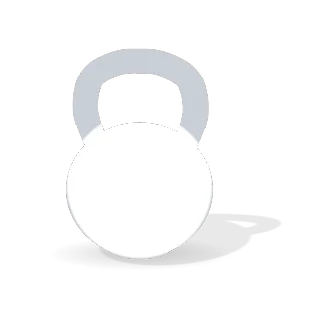
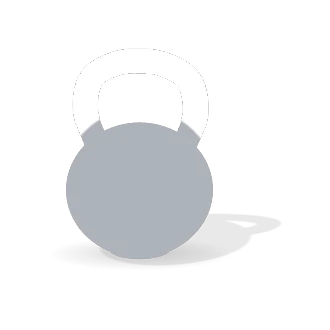
App: íconos del encabezado en el color de la sección, toques más claros, kettlebell y libro nuevos, sombra del blob tenue
- Botones de cristal: el trazo del ícono en el color de la sección (Dash azul, Entreno grafito, Alimentación verde).
- Toques: las líneas del Dash dicen «Toca la línea»; «Corte de tu mensualidad» es un aviso y no una píldora; el + de cada comida, las flechas del mes, «Ver todo» y «+ Registrar» se tocan en 44 px sin cambiar cómo se ven; las filas de Hoy del Dash suben a 40 px.
- Kettlebell: bola gris y asa blanca. Libro: blanco con la tapa y las líneas en tono naranja.
- Blob de las cabeceras: sombra corta y tenue.

Claude-Session: https://claude.ai/code/session_017q9eB3jcU4JAqbgUHmF9x1

Changed region(s): [[0.1818, 0.1515, 0.6667, 0.7879]]

diff --git a/src/Dash.jsx b/src/Dash.jsx
@@ -18,7 +18,7 @@
 // los números y la persona saca su conclusión.
 // ─────────────────────────────────────────────────────────────────────────
 import React, { useEffect, useMemo, useRef, useState, useLayoutEffect } from 'react';
-import { Bell, CaretDown, Barbell, Stack, ForkKnife, Mountains, WhatsappLogo, ChatCircle, CaretRight, CaretLeft, CalendarBlank, Heartbeat, CalendarCheck, Sparkle, CheckCircle, Circle, BookOpenText, UsersThree, GearSix, Gauge } from '@phosphor-icons/react';
+import { Bell, CaretDown, Barbell, Stack, ForkKnife, Mountains, WhatsappLogo, ChatCircle, CaretRight, CaretLeft, CalendarBlank, Heartbeat, CalendarCheck, Sparkle, CheckCircle, Circle, BookOpenText, UsersThree, GearSix, Gauge, HandTap } from '@phosphor-icons/react';
 import Comunidad, { leerComunidad, firmaComunidad } from './Comunidad.jsx';
 import Configuracion from './Configuracion.jsx';
 import { leerAprendizaje, marcadaLocal } from './aprendizaje.js';
@@ -31,7 +31,7 @@ import { Hoja } from './entrenoUI.jsx';
 import { IconoEvento } from './iconosEntreno.jsx';
 import { HojaMedida } from './EntrenoMedidas.jsx';
 import { WHATSAPP_COACH, nombresEj } from './v2.js';
-import { Pastilla, BotonCristal, FilaCristal } from './PastillaV2.jsx';
+import { Pastilla, BotonCristal, TONO_ATAJOS, FilaCristal } from './PastillaV2.jsx';
 import VentanaMarca, { BotonVentana } from './VentanaMarca.jsx';
 
 const CLAVE_BIENVENIDA = 'mt:bienvenidaComunidad';
@@ -312,6 +312,13 @@ function Linea({ puntos, color, alto = 46, textoValor, extremos }) {
         <circle cx={x(sel ?? ult)} cy={y(puntos[sel ?? ult].v)} r="4.5" fill={color} />
       </svg>}
       {textoValor && sel != null && <Globo x={x(sel)} ancho={ancho} texto={textoValor(puntos[sel])} />}
+      {/* La línea se toca para ver cada punto: que se note (antes se veía
+          como un dibujo y nadie sabía que respondía). */}
+      {textoValor && sel == null && puntos.length > 1 && (
+        <div data-pista-linea style={{ position: 'absolute', top: 2, right: 0, display: 'flex', alignItems: 'center', gap: 4, fontSize: 11.5, fontWeight: 600, color: TEXT_LIGHT, pointerEvents: 'none' }}>
+          <HandTap size={14} weight="regular" />Toca la línea
+        </div>
+      )}
       {extremos && puntos.length >= 2 && (
         <div data-extremos style={{ display: 'flex', justifyContent: 'space-between', marginTop: 6, fontSize: 12.5, color: TEXT_MUTED, fontVariantNumeric: 'tabular-nums' }}>
           <span>{extremos(puntos[0])}</span>
@@ -468,12 +475,12 @@ export default function Dash({ name, history, detalle = {}, goals, entrenoOn = t
       <FilaCristal data-atajos style={{ marginTop: 6, justifyContent: 'flex-start', gap: 10 }}>
         {/* Respira vive donde hace falta (el día de descanso, el cierre de la
             rutina y Ajustes); el Reto vuelve aquí cuando haya un reto. */}
-        {wa && <BotonCristal icono={ChatCircle} color="#25A35A" ancho={54} href={wa}>Coach</BotonCristal>}
-        <BotonCristal icono={UsersThree} color="#2F6CC4" ancho={54} badge={nuevosComunidad} data-abrir-comunidad rotulo="Comunidad"
+        {wa && <BotonCristal tono={TONO_ATAJOS.dash} icono={ChatCircle} color="#25A35A" ancho={54} href={wa}>Coach</BotonCristal>}
+        <BotonCristal tono={TONO_ATAJOS.dash} icono={UsersThree} color="#2F6CC4" ancho={54} badge={nuevosComunidad} data-abrir-comunidad rotulo="Comunidad"
           aria-label={`Comunidad${nuevosComunidad ? ` · ${nuevosComunidad} ${nuevosComunidad === 1 ? 'nueva' : 'nuevas'}` : ''}`}
           onClick={() => setVista('comunidad')}>Comunidad</BotonCristal>
-        {acciones.recordatorios && <BotonCristal icono={Bell} color="#C95F17" ancho={54} badge={pendientes} rotulo="Avisos" onClick={acciones.recordatorios}>Recordatorios</BotonCristal>}
-        <BotonCristal icono={GearSix} color="#636366" ancho={54} data-abrir-config rotulo="Ajustes" onClick={() => setVista('config')}>Configuración</BotonCristal>
+        {acciones.recordatorios && <BotonCristal tono={TONO_ATAJOS.dash} icono={Bell} color="#C95F17" ancho={54} badge={pendientes} rotulo="Avisos" onClick={acciones.recordatorios}>Recordatorios</BotonCristal>}
+        <BotonCristal tono={TONO_ATAJOS.dash} icono={GearSix} color="#636366" ancho={54} data-abrir-config rotulo="Ajustes" onClick={() => setVista('config')}>Configuración</BotonCristal>
       </FilaCristal>
 
       {/* En el navegador del teléfono (no instalada): instalarla, primero. */}
@@ -1125,7 +1132,7 @@ function Cuerpo({ medidas, cargando, alMedir }) {
   const ultGrasa = conGrasa[conGrasa.length - 1];
   return (
     <Tarjeta titulo="Peso y % de grasa"
-      accion={<button onClick={alMedir} style={{ border: 'none', background: 'transparent', padding: 0, fontFamily: 'inherit', fontSize: 14.5, fontWeight: 700, color: AMBAR, cursor: 'pointer' }}>+ Registrar</button>}>
+      accion={<button onClick={alMedir} style={{ border: 'none', background: 'transparent', padding: '11px 8px', margin: '-11px -8px', fontFamily: 'inherit', fontSize: 14.5, fontWeight: 700, color: AMBAR, cursor: 'pointer' }}>+ Registrar</button>}>
       {cargando ? (
         <div style={{ fontSize: 14, color: TEXT_LIGHT, marginTop: 12 }}>Cargando…</div>
       ) : !medidas.length ? (
@@ -1229,7 +1236,7 @@ function RecordatoriosLinea({ name, hoy, aprende, medidas, cierre = null, cargan
         // Ícono de línea, sin círculo de fondo: con círculo parecía un botón.
         <span aria-hidden="true" data-icono-hoy style={{ width: 22, height: 22, flex: 'none', color: it.color, display: 'grid', placeItems: 'center' }}><it.Icono size={19} weight="regular" /></span>
       )}
-      <button onClick={it.ir || it.marcar || undefined} style={{ flex: 1, minWidth: 0, display: 'flex', alignItems: 'center', gap: 6, border: 0, background: 'none', padding: '6px 4px 6px 0', fontFamily: 'inherit', textAlign: 'left', cursor: 'pointer' }}>
+      <button onClick={it.ir || it.marcar || undefined} style={{ flex: 1, minWidth: 0, minHeight: 40, display: 'flex', alignItems: 'center', gap: 6, border: 0, background: 'none', padding: '6px 4px 6px 0', fontFamily: 'inherit', textAlign: 'left', cursor: 'pointer' }}>
         {/* Peso normal (no negrita en cada renglón) y hasta dos líneas: el
             texto completo, sin «…» a la mitad. */}
         <span style={{ flex: 1, minWidth: 0, fontSize: 14.5, fontWeight: 500, color: TEXT, lineHeight: 1.3, letterSpacing: '-0.005em', display: '-webkit-box', WebkitBoxOrient: 'vertical', WebkitLineClamp: 2, overflow: 'hidden', textDecoration: hecho ? 'line-through' : 'none' }}>{it.texto}</span>
@@ -1244,7 +1251,7 @@ function RecordatoriosLinea({ name, hoy, aprende, medidas, cierre = null, cargan
           HOY{hoyItems.length ? <span style={{ color: todoHecho ? '#2F7F45' : TEXT }}> · {todoHecho ? 'todo listo ✓' : `${hoyHechos} de ${hoyItems.length}`}</span> : null}
         </span>
         {items.length > 0 && (
-          <button data-ver-recordatorios onClick={() => setTodos(t => !t)} style={{ border: 0, background: 'none', padding: '0 4px', fontFamily: 'inherit', fontSize: 12.5, fontWeight: 700, color: TEXT, cursor: 'pointer' }}>
+          <button data-ver-recordatorios onClick={() => setTodos(t => !t)} style={{ border: 0, background: 'none', padding: '12px 8px', margin: '-12px -4px', fontFamily: 'inherit', fontSize: 12.5, fontWeight: 700, color: TEXT, cursor: 'pointer' }}>
             {todos ? 'Ver menos' : `Ver todo (${items.length})`}
           </button>
         )}

diff --git a/src/MealTracker.jsx b/src/MealTracker.jsx
@@ -27,7 +27,7 @@ import { esV2, v2Activa, WHATSAPP_COACH } from './v2.js';
 import { CapaActiva } from './capaActiva.js';
 import Firma from './Firma.jsx';
 import { recibirMudanza, enDireccionVieja, urlDeLlegada, enDireccionNueva } from './mudanza.js';
-import { Pastilla, BotonCristal, FilaCristal } from './PastillaV2.jsx';
+import { Pastilla, BotonCristal, TONO_ATAJOS, FilaCristal } from './PastillaV2.jsx';
 import { Columnas, Leyenda as LeyendaV2, Tarjeta as TarjetaV2, useDesdeCero, ArcoApple, PuntaApple, rielDe } from './GraficasV2.jsx';
 import CabeceraHoy, { TEMAS as TEMAS_CABECERA } from './CabeceraHoy.jsx';
 import AvisoRegistro from './AvisoRegistro.jsx';
@@ -6173,10 +6173,10 @@ EJEMPLO OUTPUT: {"intent":"log_meal","meal":"desayuno","items":[{"name":"Huevo r
                 <FilaCristal style={{ marginTop: '-4px' }}>
                   {/* Recordatorios y mensualidad viven en el Dash; aquí, solo la
                       campanita, escribirle al coach y las opciones. */}
-                  <BotonCristal icono={BellV2} color="#C95F17" rotulo="Avisos" badge={coachReminders.filter(r => !r.done_at).length}
+                  <BotonCristal tono={TONO_ATAJOS.comida} icono={BellV2} color="#C95F17" rotulo="Avisos" badge={coachReminders.filter(r => !r.done_at).length}
                     onClick={() => { haptic(8); setActiveModal('reminders'); }}>Recordatorios</BotonCristal>
-                  {WHATSAPP_COACH && <BotonCristal icono={ChatV2} color="#25A35A" rotulo="Coach" href={`https://wa.me/${WHATSAPP_COACH}?text=${encodeURIComponent('Hola Mau!')}`}>Escribirle al coach</BotonCristal>}
-                  <BotonCristal icono={OpcionesV2} color={SECCION.comida.base}
+                  {WHATSAPP_COACH && <BotonCristal tono={TONO_ATAJOS.comida} icono={ChatV2} color="#25A35A" rotulo="Coach" href={`https://wa.me/${WHATSAPP_COACH}?text=${encodeURIComponent('Hola Mau!')}`}>Escribirle al coach</BotonCristal>}
+                  <BotonCristal tono={TONO_ATAJOS.comida} icono={OpcionesV2} color={SECCION.comida.base}
                     onClick={() => { haptic(8); openActionsSheet(); }}>Opciones</BotonCristal>
                 </FilaCristal>
               </div>

diff --git a/src/EntrenoMes.jsx b/src/EntrenoMes.jsx
@@ -1588,7 +1588,13 @@ function FilaDiaV2({ fecha, etiqueta, dia, P, hoy, fase, sobre, origen, arrastra
             <span style={{ width: 7, height: 7, borderRadius: 99, background: P.base }} /> {a.titulo || a.tipo}{a.duracion_min ? ` · ${a.duracion_min} min` : ''}
           </div>
         ))}
-        {dia?.corte_pago && <Etiqueta Icono={CurrencyCircleDollar} color={AMBAR_PAGO} fondo="#FBF1DC">Corte de tu mensualidad</Etiqueta>}
+        {/* Un aviso, no un botón: sin la píldora rellena (se confundía con
+            las etiquetas que sí se tocan, como Peso o Registro fotográfico). */}
+        {dia?.corte_pago && (
+          <div data-corte-pago style={{ display: 'flex', alignItems: 'center', gap: 6, fontSize: 14, fontWeight: 650, color: AMBAR_PAGO }}>
+            <CurrencyCircleDollar size={16} weight="fill" /> <span style={{ minWidth: 0 }}>Corte de tu mensualidad</span>
+          </div>
+        )}
         {nada && <div style={{ fontSize: 14, color: TEXT_LIGHT, display: 'flex', alignItems: 'center', gap: 6 }}><Moon size={15} /> {dia ? 'Descanso' : '—'}</div>}
       </div>
     </div>
@@ -1625,8 +1631,11 @@ const vidrioCal = {
   background: 'rgba(255,255,255,0.86)', WebkitBackdropFilter: 'blur(20px)', backdropFilter: 'blur(20px)',
   borderRadius: 24, padding: '12px 10px 14px', boxShadow: '0 10px 30px rgba(40,40,50,0.07)',
 };
+// Se ve un círculo de 34 px, pero se toca en 44 (lo que pide Apple): el
+// círculo es el fondo dibujado al centro de una caja más grande.
 const flechaCal = {
-  width: 34, height: 34, borderRadius: 999, border: 'none', background: 'rgba(118,118,128,0.12)', color: TEXT, cursor: 'pointer',
+  width: 44, height: 44, margin: -5, borderRadius: 999, border: 'none', color: TEXT, cursor: 'pointer',
+  background: 'radial-gradient(circle, rgba(118,118,128,0.12) 0 16.5px, rgba(118,118,128,0) 17px)',
   display: 'grid', placeItems: 'center',
 };
 const PUNTO = { cardio: '#46965A', registro: '#AF52DE', pago: AMARILLO_CAL };

diff --git a/src/PastillaV2.jsx b/src/PastillaV2.jsx
@@ -41,7 +41,11 @@ export function Pastilla({ icono: Icono, children, onClick, href, badge, color =
 // Chico a propósito, para no quitarle protagonismo a la cabecera.
 // `rotulo`: la palabra corta de abajo; `children` queda como nombre completo
 // para el lector de pantalla (p. ej. «Escribirle al coach»).
-export function BotonCristal({ icono: Icono, children, rotulo, onClick, href, badge, color = TEXT, ancho = 56, ...resto }) {
+// El color del trazo de los botones de cristal, el de cada sección (Entreno
+// es grafito).
+export const TONO_ATAJOS = { dash: '#3C7BD6', entreno: '#1D1D1F', comida: '#46965A', aprende: '#EE8434' };
+
+export function BotonCristal({ icono: Icono, children, rotulo, onClick, href, badge, color = TEXT, tono = '#1D1D1F', ancho = 56, ...resto }) {
   const Tag = href ? 'a' : 'button';
   return (
     <Tag onClick={onClick} href={href} target={href ? '_blank' : undefined} rel={href ? 'noopener noreferrer' : undefined}
@@ -55,10 +59,9 @@ export function BotonCristal({ icono: Icono, children, rotulo, onClick, href, ba
         background: 'rgba(255,255,255,0.78)', WebkitBackdropFilter: 'blur(16px)', backdropFilter: 'blur(16px)',
         boxShadow: '0 5px 14px rgba(30,40,60,0.09), inset 0 0 0 0.5px rgba(255,255,255,0.9)',
       }}>
-        {/* Todos en tono: ícono de línea grafito en el círculo blanco (antes
-            cada uno de un color y se veía de juguete). Lo único de color es
-            el aviso rojo de novedades. */}
-        <Icono size={20} weight="regular" color="#1D1D1F" />
+        {/* Ícono de línea en el color de la sección (todos los de una
+            sección iguales), sobre el círculo blanco. */}
+        <Icono size={20} weight="regular" color={tono} data-tono-icono={tono} />
         {badge > 0 && (
           <span data-badge style={{
             position: 'absolute', top: -3, right: -3, minWidth: 18, height: 18, padding: '0 5px', borderRadius: 99,

diff --git a/src/Entrenamiento.jsx b/src/Entrenamiento.jsx
@@ -11,7 +11,7 @@ import HojaNota from './EntrenoNota.jsx';
 import { api as entrenoApi, miniatura, hoyLocal, numero, descansoEnCircuito, convertir, sinPeso, rutinaAbierta, guardarRutinaAbierta, borrarRutinaAbierta, fijarClaveTecleado, borrarTecleado, leerTecleado } from './entrenoDatos.js';
 import { crearCola, guardarRutinaLocal, leerRutinaLocal } from './entrenoCola.js';
 import { nombresEj, v2Activa, WHATSAPP_COACH } from './v2.js';
-import { Pastilla, BotonCristal, FilaCristal } from './PastillaV2.jsx';
+import { Pastilla, BotonCristal, TONO_ATAJOS, FilaCristal } from './PastillaV2.jsx';
 import CabeceraHoy from './CabeceraHoy.jsx';
 import { vozEntreno, vozFinEntreno } from './vozCoach.js';
 import Firma from './Firma.jsx';
@@ -1251,8 +1251,8 @@ function PildoraRecordatorios({ pendientes = 0, abrir }) {
   // Visual nueva: los botones de cristal (círculo y palabra debajo).
   if (v2Activa()) return (
     <FilaCristal style={{ margin: '0 0 14px' }}>
-      <BotonCristal icono={Bell} color="#C95F17" badge={pendientes} rotulo="Avisos" onClick={abrir}>Recordatorios</BotonCristal>
-      {WHATSAPP_COACH && <BotonCristal icono={ChatCircle} color="#25A35A" rotulo="Coach" href={`https://wa.me/${WHATSAPP_COACH}?text=${encodeURIComponent('Hola Mau!')}`}>Escribirle al coach</BotonCristal>}
+      <BotonCristal tono={TONO_ATAJOS.entreno} icono={Bell} color="#C95F17" badge={pendientes} rotulo="Avisos" onClick={abrir}>Recordatorios</BotonCristal>
+      {WHATSAPP_COACH && <BotonCristal tono={TONO_ATAJOS.entreno} icono={ChatCircle} color="#25A35A" rotulo="Coach" href={`https://wa.me/${WHATSAPP_COACH}?text=${encodeURIComponent('Hola Mau!')}`}>Escribirle al coach</BotonCristal>}
     </FilaCristal>
   );
   return (

diff --git a/src/DiaComidas.jsx b/src/DiaComidas.jsx
@@ -78,10 +78,12 @@ export default function DiaComidas({ entries = [], alAgregar, alDictar }) {
                       : primeroVacio && primeroVacio.k === m.k ? 'Toca + para registrarlo' : '—'}
                   </div>
                 </div>
+                {/* Se ve un círculo de 34 px; se toca en 44 (lo que pide Apple). */}
                 <button type="button" data-agregar-momento={m.k} onClick={() => alAgregar && alAgregar(m)} aria-label={`Registrar ${m.nombre.toLowerCase()}`}
-                  style={{ width: 34, height: 34, borderRadius: 99, flex: 'none', border: 'none', cursor: 'pointer', display: 'grid', placeItems: 'center',
-                    background: '#FFFFFF', boxShadow: 'inset 0 0 0 1.6px #D1D1D6', color: TEXT }}>
-                  <Plus size={16} weight="bold" />
+                  style={{ width: 44, height: 44, margin: -5, borderRadius: 99, flex: 'none', border: 'none', cursor: 'pointer', display: 'grid', placeItems: 'center', background: 'none', padding: 0, color: TEXT }}>
+                  <span aria-hidden="true" style={{ width: 34, height: 34, borderRadius: 99, display: 'grid', placeItems: 'center', background: '#FFFFFF', boxShadow: 'inset 0 0 0 1.6px #D1D1D6' }}>
+                    <Plus size={16} weight="bold" />
+                  </span>
                 </button>
               </div>
               {lista.map(e => <Registro key={e.id} e={e} />)}

diff --git a/src/Blob.jsx b/src/Blob.jsx
@@ -27,7 +27,11 @@ export default function Blob({ color, tam = 120, sombra = true, sombraColor = nu
   return (
     <svg data-blob width={tam} height={tam} viewBox="0 0 200 200" aria-hidden="true" {...resto} style={{
       display: 'block', overflow: 'visible', transform: `rotate(${BLOB_GIRO}deg)`,
-      filter: sombra ? `drop-shadow(0 16px 28px ${sombraColor || color}${sombraColor ? '40' : '66'}) drop-shadow(0 2px 6px rgba(30,30,40,.06))` : undefined,
+      // Con `sombraColor` (las cabeceras): una sombra corta y tenue, que
+      // apenas separa el blob del fondo (la de antes era grande y pesaba).
+      filter: !sombra ? undefined : sombraColor
+        ? `drop-shadow(0 6px 12px ${sombraColor}2E) drop-shadow(0 1px 3px rgba(30,30,40,.05))`
+        : `drop-shadow(0 16px 28px ${color}66) drop-shadow(0 2px 6px rgba(30,30,40,.06))`,
       ...style,
     }}>
       <path d={BLOB_PATH} fill={color} />
